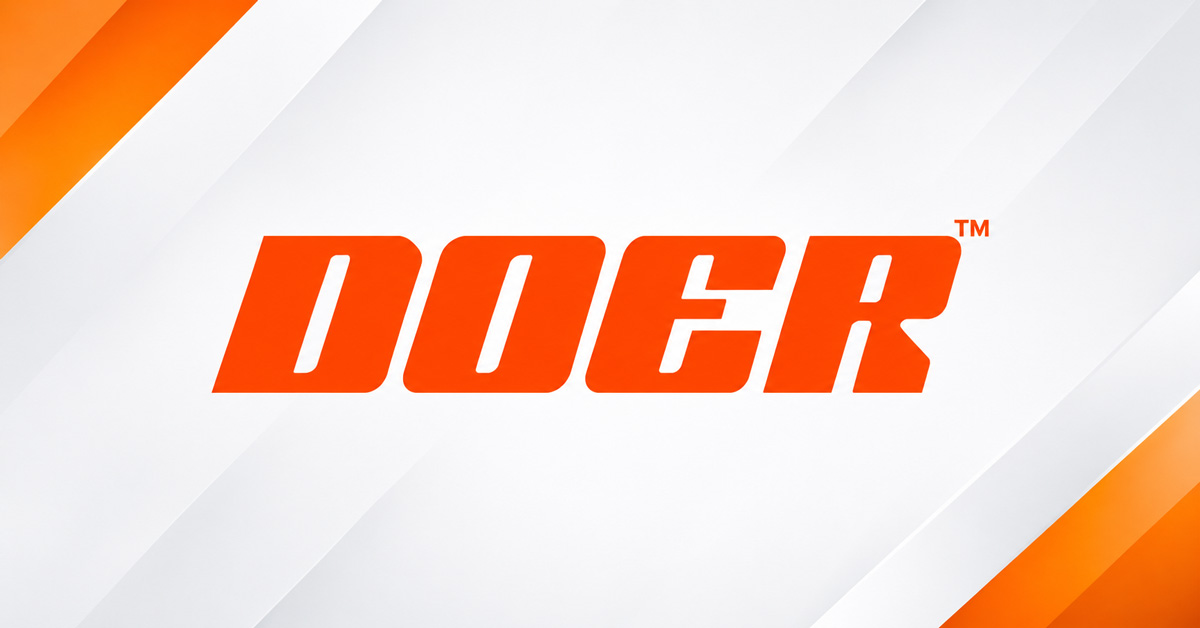
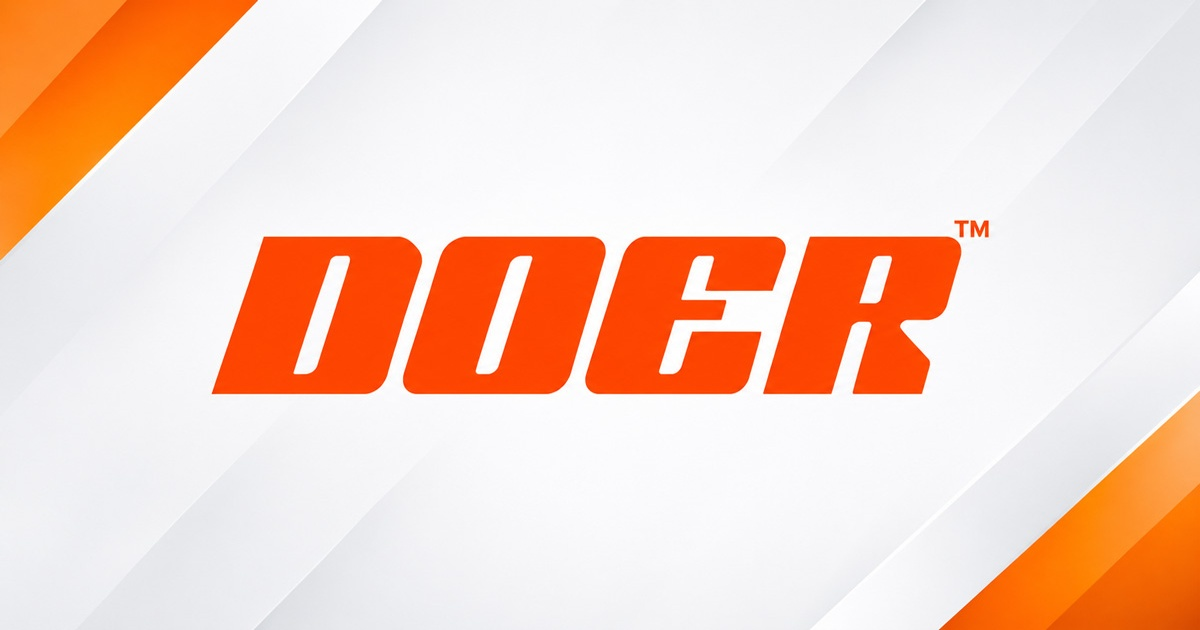
og image

diff --git a/src/lib/metadata.ts b/src/lib/metadata.ts
@@ -50,8 +50,8 @@ export function constructMetadata({
         {
           url: ogImageUrl,
           secureUrl: ogImageUrl,
-          width: 1734,
-          height: 907,
+          width: 1200,
+          height: 630,
           alt: title,
           type: 'image/jpeg',
         },
